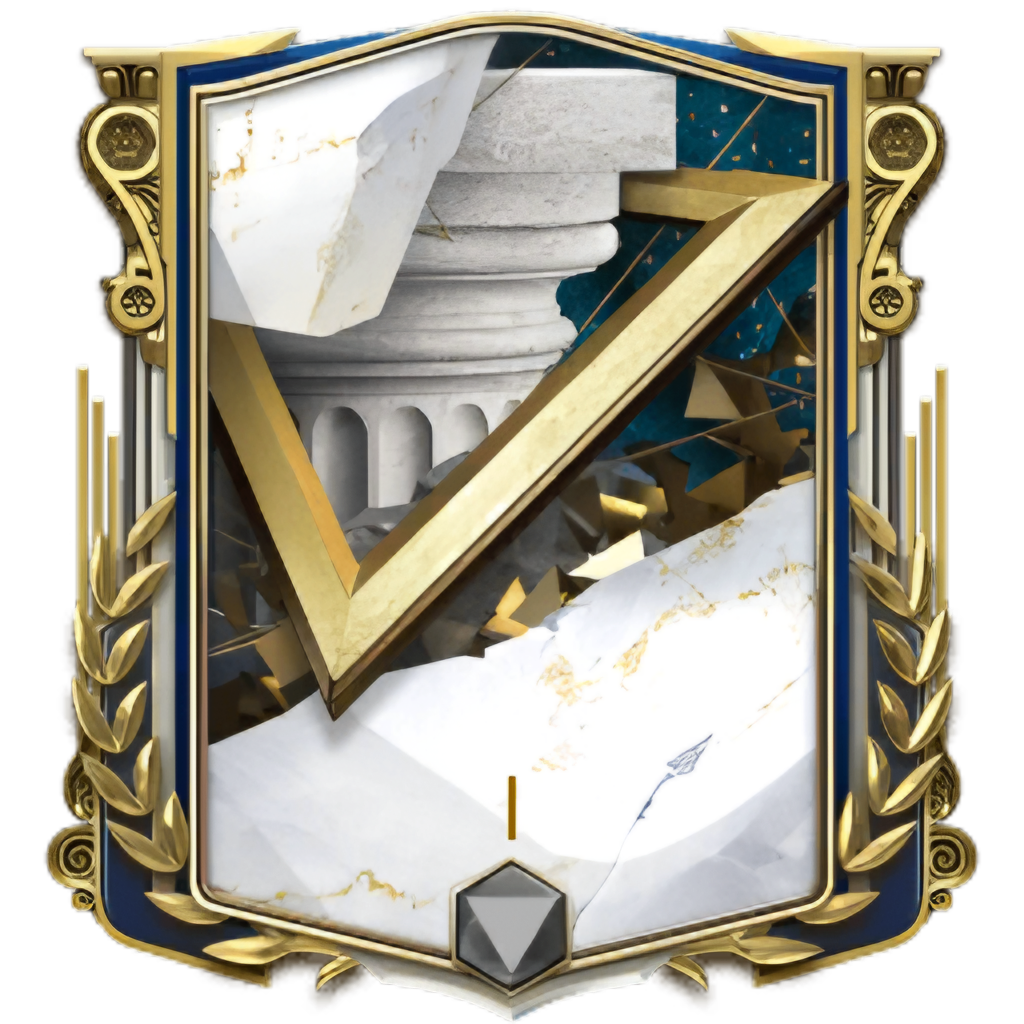
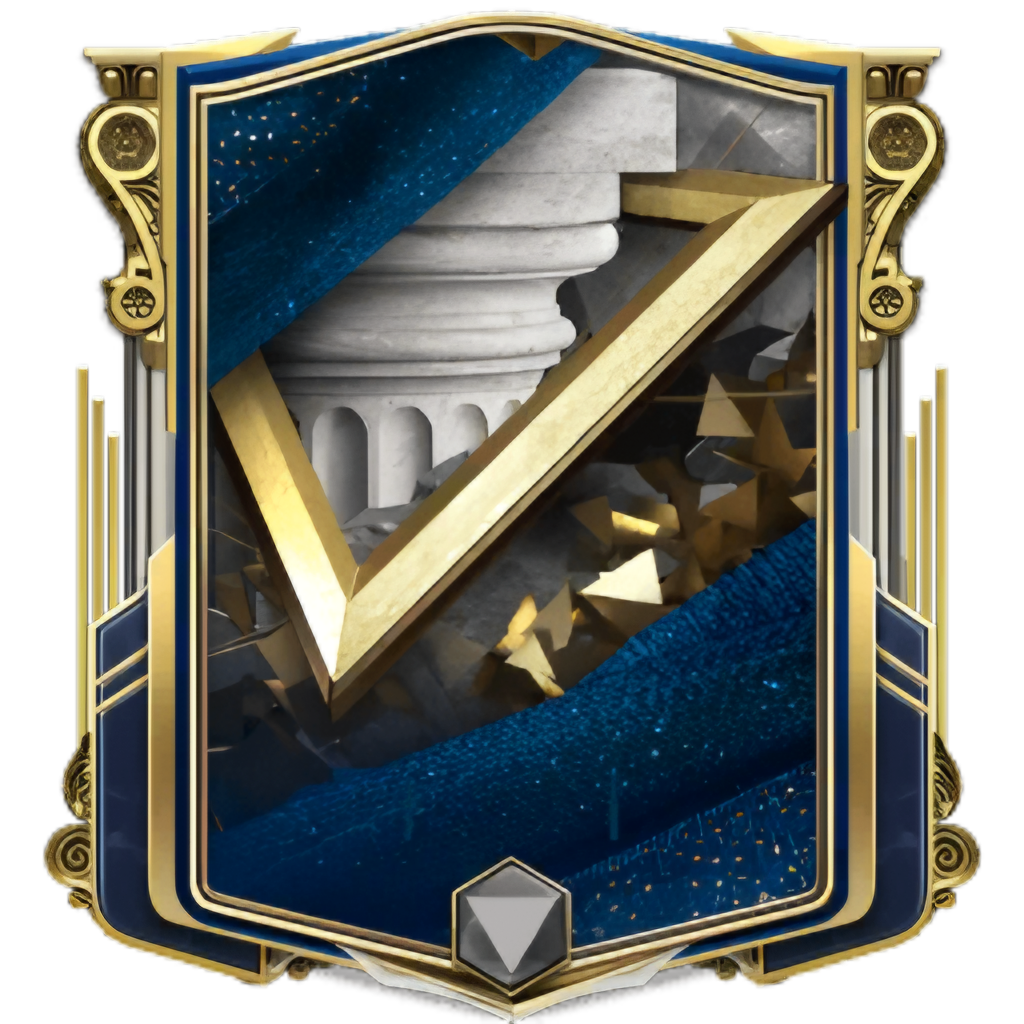
Alum card added

diff --git a/src/components/common/PlayerCardBase.jsx b/src/components/common/PlayerCardBase.jsx
@@ -100,7 +100,7 @@ const PlayerCardBase = ({ player, showSoldBadge = false, animated = false }) => 
         const y = String(year) // Case sensitive matching for 'Alumni', 'M.Tech'
 
         if (y.includes('1')) return { bg: '/cards/year1.png', isCustom: true }
-        if (y.includes('2')) return { bg: '/cards/year2.png', isCustom: true }
+        if (y.includes('2')) return { bg: '/cards/year02.png', isCustom: true }
         if (y.includes('3')) return { bg: '/cards/year3.png', isCustom: true }
         if (y.includes('4')) return { bg: '/cards/year4.png', isCustom: true }
         if (y.includes('5')) return { bg: '/cards/year5.png', isCustom: true }
